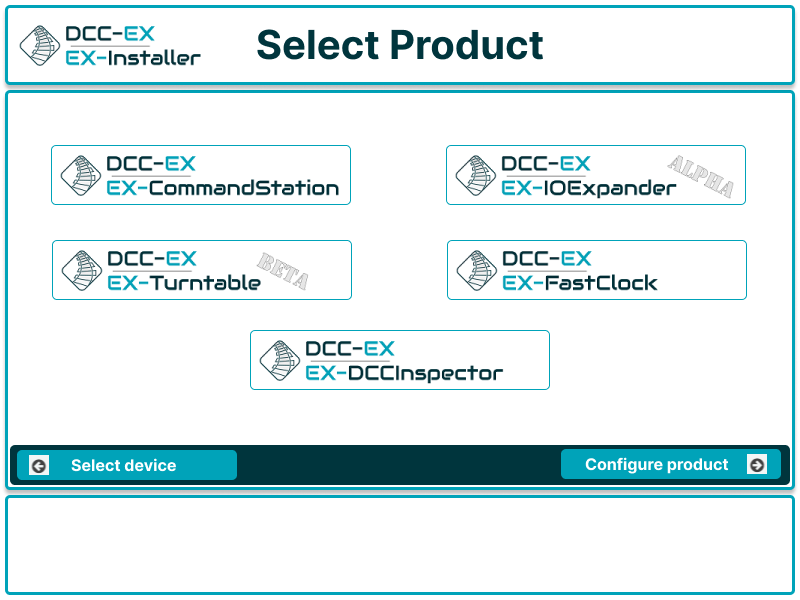
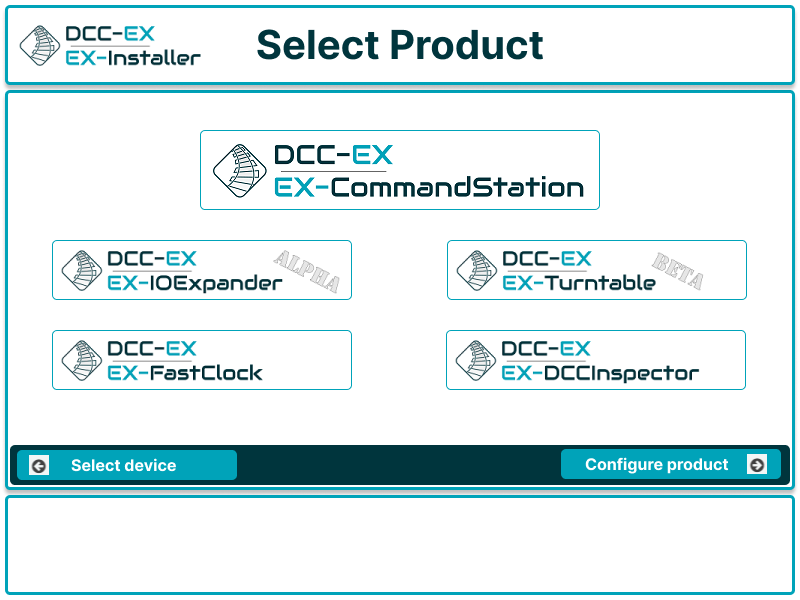
Initial layout done

diff --git a/ex_installer/common_widgets.py b/ex_installer/common_widgets.py
@@ -1,0 +1,152 @@
+"""
+Module to define widgets used across the application
+
+Every view should include this module and base the layout on WindowLayout
+"""
+
+# Import Python modules
+import customtkinter as ctk
+from PIL import Image
+
+# Import local modules
+from . import images
+
+
+class WindowLayout(ctk.CTkFrame):
+    """
+    Class to define the window layout
+
+    All views must inherit from this
+    """
+    def __init__(self, parent, *args, **kwargs):
+        super().__init__(parent, *args, **kwargs)
+
+        # Define top level frames
+        self.title_frame = ctk.CTkFrame(self, width=790, height=80)
+        self.main_frame = ctk.CTkFrame(self, width=790, height=400)
+        self.status_frame = ctk.CTkFrame(self, width=790, height=100)
+
+        # Configure column/row weights for nice resizing
+        self.grid_columnconfigure(0, weight=1)
+        self.grid_rowconfigure(0, weight=0)
+        self.grid_rowconfigure((1, 2), weight=1)
+
+        # Layout view
+        self.title_frame.grid(column=0, row=0, padx=5, pady=2, sticky="nsew")
+        self.main_frame.grid(column=0, row=1, padx=5, pady=2, sticky="nsew")
+        self.status_frame.grid(column=0, row=2, padx=5, pady=2, sticky="nsew")
+
+        # Setup frame weights
+        self.title_frame.grid_columnconfigure(0, weight=1)
+        self.title_frame.grid_columnconfigure(1, weight=10)
+        self.main_frame.grid_columnconfigure(0, weight=1)
+        self.main_frame.grid_rowconfigure(0, weight=1)
+        self.status_frame.grid_columnconfigure(0, weight=1)
+        self.status_frame.grid_rowconfigure(0, weight=1)
+
+        # Setup title frame
+        self.title_logo_label = ctk.CTkLabel(self.title_frame, text=None)
+        self.title_logo_label.grid(column=0, row=0, padx=5, pady=5, sticky="w")
+        title_font = ctk.CTkFont(family="Helvetica", size=30, weight="normal")
+        self.title_label = ctk.CTkLabel(self.title_frame, text=None, font=title_font)
+        self.title_label.grid(column=1, row=0, padx=5, pady=5, sticky="w")
+
+        # Setup next/back frame
+        self.next_back = NextBack(self.main_frame, height=40,
+                                  fg_color="#00353D", border_width=0)
+        self.next_back.grid(column=0, row=1, sticky="sew")
+
+    def set_title_logo(self, logo):
+        """
+        Function to update the title logo
+
+        Call and pass a logo as defined in the images module
+        """
+        self.title_logo = Image.open(logo)
+        self.title_image = ctk.CTkImage(light_image=self.title_logo, size=(200, 40))
+        self.title_logo_label.configure(image=self.title_image)
+
+    def set_title_text(self, text):
+        """
+        Function to update the title text
+        """
+        self.title_label.configure(text=text)
+
+
+class NextBack(ctk.CTkFrame):
+    """
+    Class for defining and managing the next and back buttons
+    """
+    def __init__(self, parent, *args, **kwargs):
+        """
+        Create the next/back button frame with buttons
+        """
+        super().__init__(parent, *args, **kwargs)
+
+        self.grid_columnconfigure(0, weight=1)
+
+        button_font = ctk.CTkFont(family="Helvetica", size=14, weight="bold")
+        button_options = {"width": 220, "height": 30, "font": button_font}
+
+        self.back_arrow = Image.open(images.BACK_ARROW)
+        self.back_arrow_image = ctk.CTkImage(light_image=self.back_arrow, size=(15, 15))
+        self.back_button = ctk.CTkButton(self, image=self.back_arrow_image,
+                                         text="Back", compound="left",
+                                         anchor="w",
+                                         **button_options)
+
+        self.next_arrow = Image.open(images.NEXT_ARROW)
+        self.next_arrow_image = ctk.CTkImage(light_image=self.next_arrow, size=(15, 15))
+        self.next_button = ctk.CTkButton(self, image=self.next_arrow_image,
+                                         text="Next", compound="right",
+                                         anchor="e",
+                                         **button_options)
+
+        self.back_button.grid(column=0, row=0, padx=3, pady=3, sticky="w")
+        self.next_button.grid(column=1, row=0, padx=3, pady=3, sticky="e")
+
+    def set_back_text(self, text):
+        """Update back button text"""
+        self.back_button.configure(text=text)
+
+    def disable_back(self):
+        """Disable back button"""
+        self.back_button.configure(state="disabled")
+
+    def enable_back(self):
+        """Enable back button"""
+        self.back_button.configure(state="normal")
+
+    def hide_back(self):
+        """Hide back button"""
+        self.back_button.grid_remove()
+
+    def show_back(self):
+        """Show back button"""
+        self.back_button.grid()
+
+    def set_back_command(self, command):
+        self.back_button.configure(command=command)
+
+    def set_next_text(self, text):
+        """Update next button text"""
+        self.next_button.configure(text=text)
+
+    def disable_next(self):
+        """Disable next button"""
+        self.next_button.configure(state="disabled")
+
+    def enable_next(self):
+        """Enable next button"""
+        self.next_button.configure(state="normal")
+
+    def hide_next(self):
+        """Hide next button"""
+        self.next_button.grid_remove()
+
+    def show_next(self):
+        """Show next button"""
+        self.next_button.grid()
+
+    def set_next_command(self, command):
+        self.next_button.configure(command=command)

diff --git a/ex_installer/welcome.py b/ex_installer/welcome.py
@@ -4,27 +4,26 @@ Module for the Welcome page view
 
 # Import Python modules
 import customtkinter as ctk
-from PIL import Image
 
 # Import local modules
-from .parent_view import ParentView
+from .common_widgets import WindowLayout
 from . import images
 
 
-class Welcome(ParentView):
+class Welcome(WindowLayout):
     """
     Class for the Welcome view
     """
     def __init__(self, parent, *args, **kwargs):
         super().__init__(parent, *args, **kwargs)
 
-        self.grid_columnconfigure(0, weight=1)
-        self.grid_rowconfigure((0, 2), weight=0)
-        self.grid_rowconfigure((1, 3), weight=1)
+        self.set_title_logo(images.EX_INSTALLER_LOGO)
+        self.set_title_text("Welcome to EX-Installer")
 
-        self.ex_installer_logo = Image.open(images.EX_INSTALLER_LOGO)
-        self.ex_installer_image = ctk.CTkImage(light_image=self.ex_installer_logo,
-                                               size=(300, 60))
-        self.ex_installer_title = ctk.CTkLabel(self.title_frame, image=self.ex_installer_image, text=None)
+        self.next_back.hide_back()
 
-        self.ex_installer_title.grid(column=0, row=0, sticky="w")
+        self.next_back.set_next_text("Manage Arduino CLI")
+        self.next_back.set_next_command(lambda view="manage_arduino_cli": parent.switch_view(view))
+
+        self.welcome_frame = ctk.CTkFrame(self.main_frame, height=360)
+        self.welcome_frame.grid(column=0, row=0, sticky="nsew")

diff --git a/ex_installer/ex_installer.py b/ex_installer/ex_installer.py
@@ -12,10 +12,14 @@ from . import theme
 from .arduino_cli import ArduinoCLI
 from .github_api import GitHubAPI
 from .welcome import Welcome
+from .manage_arduino_cli import ManageArduinoCLI
+from .select_device import SelectDevice
+from .select_product import SelectProduct
+from .ex_commandstation import EXCommandStation
 
 # Set theme and appearance, and deactive screen scaling
 ctk.set_default_color_theme(theme.DCC_EX_THEME)
-ctk.set_appearance_mode("system")
+ctk.set_appearance_mode("light")
 ctk.deactivate_automatic_dpi_awareness()
 
 
@@ -46,5 +50,22 @@ class EXInstaller(ctk.CTk):
         self.grid_columnconfigure(0, weight=1)
         self.grid_rowconfigure(0, weight=1)
 
-        self.welcome = Welcome(self)
-        self.welcome.grid(column=0, row=0, sticky="nsew")
+        self.frames = {
+            "welcome": Welcome,
+            "manage_arduino_cli": ManageArduinoCLI,
+            "select_device": SelectDevice,
+            "select_product": SelectProduct,
+            "ex_commandstation": EXCommandStation
+        }
+        self.frame = None
+
+        self.switch_view("welcome")
+
+    def switch_view(self, frame_class):
+        """
+        Function to switch views
+        """
+        if self.frame:
+            self.frame.destroy()
+        self.frame = self.frames[frame_class](self)
+        self.frame.grid(column=0, row=0, sticky="nsew")

diff --git a/ex_installer/select_product.py b/ex_installer/select_product.py
@@ -1,0 +1,33 @@
+"""
+Module for the Select Product page view
+"""
+
+# Import Python modules
+import customtkinter as ctk
+
+# Import local modules
+from .common_widgets import WindowLayout
+from . import images
+
+
+class SelectProduct(WindowLayout):
+    """
+    Class for the Select Product view
+    """
+    def __init__(self, parent, *args, **kwargs):
+        super().__init__(parent, *args, **kwargs)
+
+        self.set_title_logo(images.EX_INSTALLER_LOGO)
+        self.set_title_text("Select the Product to install")
+
+        self.product_selection = ctk.StringVar(value=None)
+        self.product_selection.set("ex_commandstation")
+
+        self.next_back.set_back_text("Select Device")
+        self.next_back.set_back_command(lambda view="select_device": parent.switch_view(view))
+
+        self.next_back.set_next_text("Configure and install")
+        self.next_back.set_next_command(lambda view=self.product_selection.get(): parent.switch_view(view))
+
+        self.select_product_frame = ctk.CTkFrame(self.main_frame, height=360)
+        self.select_product_frame.grid(column=0, row=0, sticky="nsew")

diff --git a/ex_installer/manage_arduino_cli.py b/ex_installer/manage_arduino_cli.py
@@ -1,0 +1,31 @@
+"""
+Module for managing the Arduino CLI page view
+"""
+
+# Import Python modules
+import customtkinter as ctk
+
+# Import local modules
+from .common_widgets import WindowLayout
+from . import images
+
+
+class ManageArduinoCLI(WindowLayout):
+    """
+    Class for the Manage Arduino CLI view
+    """
+    def __init__(self, parent, *args, **kwargs):
+        super().__init__(parent, *args, **kwargs)
+
+        self.set_title_logo(images.EX_INSTALLER_LOGO)
+        self.set_title_text("Manage the Arduino CLI")
+
+        self.next_back.show_back()
+        self.next_back.set_back_text("Welcome")
+        self.next_back.set_back_command(lambda view="welcome": parent.switch_view(view))
+
+        self.next_back.set_next_text("Select your device")
+        self.next_back.set_next_command(lambda view="select_device": parent.switch_view(view))
+
+        self.select_product_frame = ctk.CTkFrame(self.main_frame, height=360)
+        self.select_product_frame.grid(column=0, row=0, sticky="nsew")

diff --git a/ex_installer/select_device.py b/ex_installer/select_device.py
@@ -1,0 +1,30 @@
+"""
+Module for the Select Device page view
+"""
+
+# Import Python modules
+import customtkinter as ctk
+
+# Import local modules
+from .common_widgets import WindowLayout
+from . import images
+
+
+class SelectDevice(WindowLayout):
+    """
+    Class for the Welcome view
+    """
+    def __init__(self, parent, *args, **kwargs):
+        super().__init__(parent, *args, **kwargs)
+
+        self.set_title_logo(images.EX_INSTALLER_LOGO)
+        self.set_title_text("Select your device")
+
+        self.next_back.set_back_text("Manage Arduino CLI")
+        self.next_back.set_back_command(lambda view="manage_arduino_cli": parent.switch_view(view))
+
+        self.next_back.set_next_text("Select product to install")
+        self.next_back.set_next_command(lambda view="select_product": parent.switch_view(view))
+
+        self.select_device_frame = ctk.CTkFrame(self.main_frame, height=360)
+        self.select_device_frame.grid(column=0, row=0, sticky="nsew")

diff --git a/ex_installer/ex_commandstation.py b/ex_installer/ex_commandstation.py
@@ -1,0 +1,30 @@
+"""
+Module for the EX-CommandStation page view
+"""
+
+# Import Python modules
+import customtkinter as ctk
+
+# Import local modules
+from .common_widgets import WindowLayout
+from . import images
+
+
+class EXCommandStation(WindowLayout):
+    """
+    Class for the EX-CommandStation view
+    """
+    def __init__(self, parent, *args, **kwargs):
+        super().__init__(parent, *args, **kwargs)
+
+        self.set_title_logo(images.EX_COMMANDSTATION_LOGO)
+        self.set_title_text("Install EX-CommandStation")
+
+        self.next_back.set_back_text("Select Product")
+        self.next_back.set_back_command(lambda view="select_product": parent.switch_view(view))
+
+        self.next_back.set_next_text("Upload")
+        self.next_back.set_next_command(None)
+
+        self.ex_commandstation_frame = ctk.CTkFrame(self.main_frame, height=360)
+        self.ex_commandstation_frame.grid(column=0, row=0, sticky="nsew")

diff --git a/ex_installer/images/__init__.py b/ex_installer/images/__init__.py
@@ -21,3 +21,7 @@ EX_FASTCLOCK_LOGO = IMAGE_PATH / "ex-fastclock.png"
 EX_INSTALLER_LOGO = IMAGE_PATH / "ex-installer.png"
 EX_IOEXPANDER_LOGO = IMAGE_PATH / "ex-ioexpander.png"
 EX_TURNTABLE_LOGO = IMAGE_PATH / "ex-turntable.png"
+
+"""Button arrows"""
+BACK_ARROW = IMAGE_PATH / "back-arrow.png"
+NEXT_ARROW = IMAGE_PATH / "next-arrow.png"
